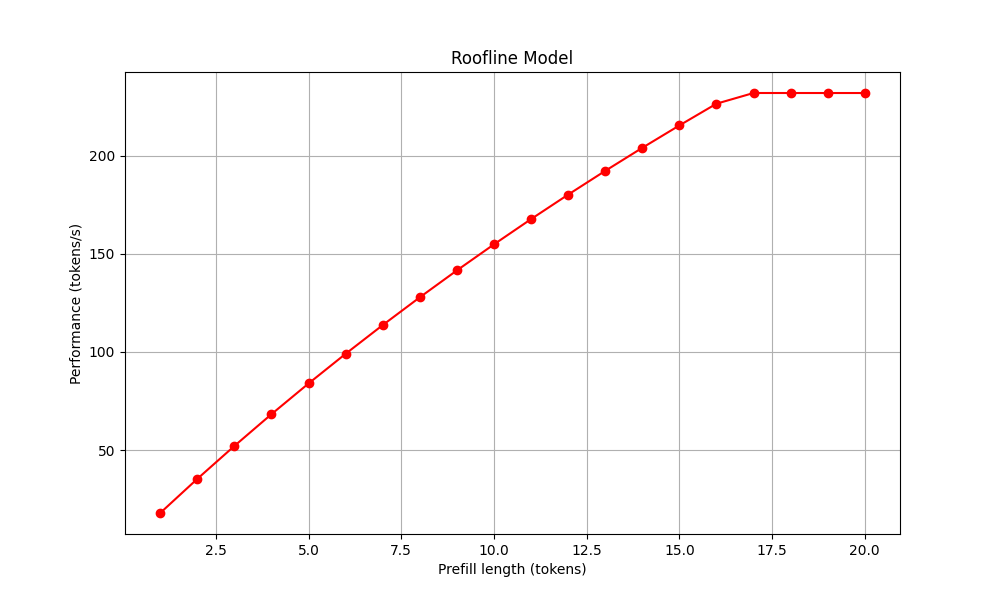
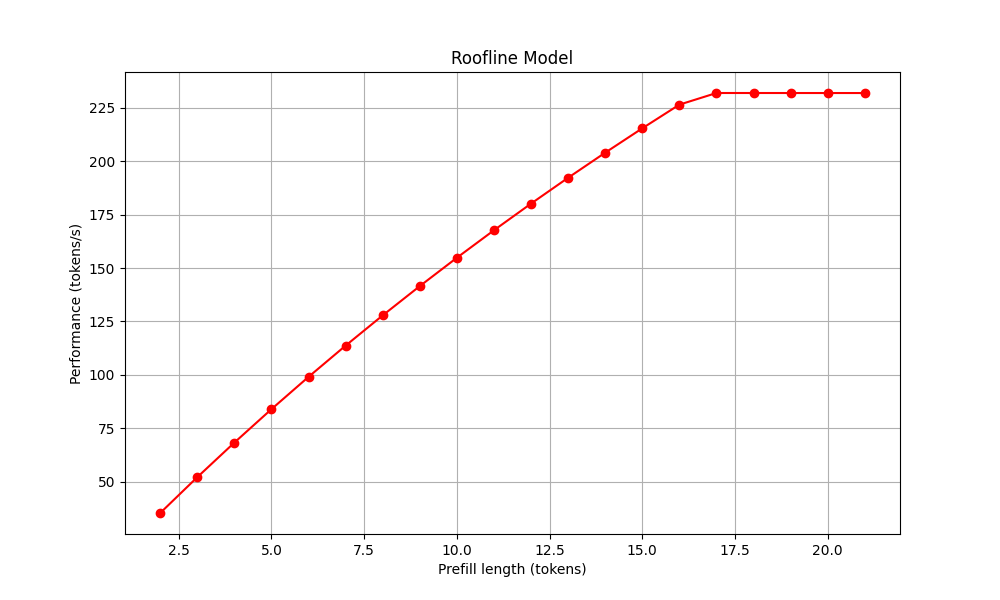
小改动

diff --git a/modeling/AAT.py b/modeling/AAT.py
@@ -29,16 +29,18 @@ eagle3_aat = {1: 1, 2: 1.824, 3: 2.488, 4: 3.014, 5: 3.473,
 # 情境：长文本（prefill_length=32000).
 # 数据集：pg-19 test.
 # 采样了80条数据。生成长度都是128.
-magicdec_aat = {1: 1.811, 2: 2.476, 3: 2.982, 4: 3.408, 5: 3.783, 
-                6: 4.172, 7: 4.324, 8: 4.698, 9: 4.825, 10: 4.793, 
-                11: 4.889, 12: 5.038, 13: 5.094, 14: 5.068, 15: 5.155, 
-                16: 5.353, 17: 5.472, 18: 5.420, 19: 5.468, 20: 5.454}
+# 必须注意的是：gamma=1的时候是会输入两个token进行verify，只有gamma=0才是一个token进行verify（也就是不用投机采样）。
+magicdec_aat = {2: 1.811, 3: 2.476, 4: 2.982, 5: 3.408, 6: 3.783, 
+                7: 4.172, 8: 4.324, 9: 4.698, 10: 4.825, 11: 4.793, 
+                12: 4.889, 13: 5.038, 14: 5.094, 15: 5.068, 16: 5.155, 
+                17: 5.353, 18: 5.472, 19: 5.420, 20: 5.468, 21: 5.454}
 
 # 算法：LongSpec。
 # 情境：长文本（prefill_length=32000).
 # 数据集：gov_report.
 # 只有3条测试数据。但是生成长度都是1024.
-longspec_aat = {1: 1.755, 2: 2.197, 3: 2.352, 4: 2.532, 5: 2.664, 
-                6: 2.655, 7: 2.871, 8: 2.874, 9: 2.932, 10: 2.926, 
-                11: 2.926, 12: 2.943, 13: 2.943, 14: 2.943, 15: 2.896,
-                16: 3.285, 17: 3.282, 18: 3.279, 19:3.279,  20:3.279}
+# 必须注意的是：gamma=1的时候是会输入两个token进行verify，只有gamma=0才是一个token进行verify（也就是不用投机采样）
+longspec_aat = {2: 1.755, 3: 2.197, 4: 2.352, 5: 2.532, 6: 2.664, 
+                7: 2.655, 8: 2.871, 9: 2.874, 10: 2.932, 11: 2.926, 
+                12: 2.926, 13: 2.943, 14: 2.943, 15: 2.943, 16: 2.896,
+                17: 3.285, 18: 3.282, 19: 3.279, 20:3.279,  21:3.279}
